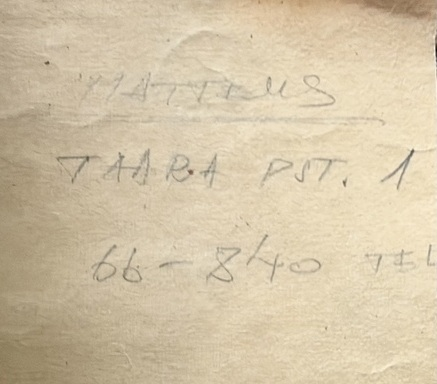
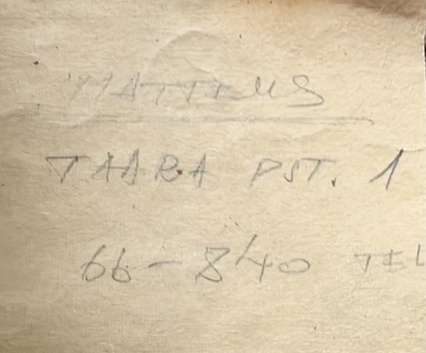
Add files via upload

diff --git a/index.html b/index.html
@@ -5,17 +5,18 @@
 <title>Laasi tuulik · Puiestee 13, Tartu</title>
 <meta name="description" content="Puiestee 13 ajaloolise Laasi ehk Puiestee tuuliku lugu – tuulikust Arnold Matteuse kujundatud elamuks.">
 <style>
-:root{--paper:#f3efe7;--ink:#24221e;--muted:#706b62;--bronze:#80633f;--line:#cfc5b4;--dark:#292a27}*{box-sizing:border-box}html{scroll-behavior:smooth}body{margin:0;background:var(--paper);color:var(--ink);font-family:Georgia,'Times New Roman',serif;line-height:1.65}.wrap{width:min(1080px,calc(100% - 40px));margin:auto}.hero{min-height:92vh;display:grid;align-items:end;background:linear-gradient(0deg,rgba(15,15,13,.76),rgba(15,15,13,.08)),url('laasi-tuulik-vana.jpeg') center 34%/cover no-repeat;color:white}.hero .inner{padding:10vh 0 8vh}.eyebrow{font:600 12px/1.3 Arial,sans-serif;letter-spacing:.2em;text-transform:uppercase}.hero h1{font-size:clamp(54px,10vw,112px);font-weight:400;line-height:.9;margin:.18em 0}.hero p{font-size:clamp(18px,2.4vw,27px);max-width:700px;margin:0}.intro{padding:90px 0 55px;display:grid;grid-template-columns:1fr 2fr;gap:60px}.intro h2,.section h2{font-weight:400;font-size:clamp(34px,5vw,58px);line-height:1.05;margin:0}.intro p{font-size:21px;margin-top:0}.rule{height:1px;background:var(--line)}.section{padding:75px 0}.grid2{display:grid;grid-template-columns:1fr 1fr;gap:28px;align-items:start}.photo{width:100%;display:block}.caption{font:13px/1.5 Arial,sans-serif;color:var(--muted);margin-top:10px}.quote{font-size:clamp(28px,4vw,45px);line-height:1.2;margin:50px auto;max-width:850px;text-align:center}.plan{background:#e8dece;padding:22px}.plan img{width:100%;display:block}.timeline{background:var(--dark);color:#eee;padding:80px 0}.timeline h2{font-weight:400;font-size:48px;margin-top:0}.events{display:grid;grid-template-columns:repeat(4,1fr);gap:28px;border-top:1px solid #6d6a61;padding-top:30px}.event b{font:600 12px Arial,sans-serif;letter-spacing:.12em;text-transform:uppercase;color:#c6a77c}.event p{margin:.6em 0 0}.heritage{background:#ded2c0;padding:78px 0}.heritage .lead{font-size:22px;max-width:820px}.heritage a{color:var(--ink);text-decoration-color:var(--bronze);text-underline-offset:4px}.heritage-list{display:grid;grid-template-columns:repeat(3,1fr);gap:28px;margin-top:38px}.heritage-item{border-top:1px solid #a9977e;padding-top:18px}.heritage-item b{font:600 12px Arial,sans-serif;letter-spacing:.12em;text-transform:uppercase;color:var(--bronze)}.note{padding:70px 0 90px;text-align:center}.note p{max-width:720px;margin:18px auto;color:var(--muted)}footer{border-top:1px solid var(--line);padding:28px 0 50px;font:13px Arial,sans-serif;color:var(--muted)}@media(max-width:720px){.wrap{width:min(100% - 28px,1080px)}.hero{min-height:78vh}.intro,.grid2{grid-template-columns:1fr;gap:25px}.intro{padding-top:60px}.events,.heritage-list{grid-template-columns:1fr}.section{padding:55px 0}.quote{text-align:left}.hero h1{font-size:60px}}
-</style></head>
+:root{--paper:#f3efe7;--ink:#24221e;--muted:#706b62;--bronze:#80633f;--line:#cfc5b4;--dark:#292a27}*{box-sizing:border-box}html{scroll-behavior:smooth}body{margin:0;background:var(--paper);color:var(--ink);font-family:Georgia,'Times New Roman',serif;line-height:1.65}.wrap{width:min(1080px,calc(100% - 40px));margin:auto}.hero{min-height:92vh;display:grid;align-items:end;background:linear-gradient(0deg,rgba(15,15,13,.76),rgba(15,15,13,.08)),url('laasi-tuulik-vana.jpeg') center 34%/cover no-repeat;color:white}.hero .inner{padding:10vh 0 8vh}.eyebrow{font:600 12px/1.3 Arial,sans-serif;letter-spacing:.2em;text-transform:uppercase}.hero h1{font-size:clamp(54px,10vw,112px);font-weight:400;line-height:.9;margin:.18em 0}.hero p{font-size:clamp(18px,2.4vw,27px);max-width:700px;margin:0}.intro{padding:90px 0 55px;display:grid;grid-template-columns:1fr 2fr;gap:60px}.intro h2,.section h2{font-weight:400;font-size:clamp(34px,5vw,58px);line-height:1.05;margin:0}.intro p{font-size:21px;margin-top:0}.rule{height:1px;background:var(--line)}.section{padding:75px 0}.grid2{display:grid;grid-template-columns:1fr 1fr;gap:28px;align-items:start}.photo{width:100%;display:block;border-radius:3px}.caption{font:13px/1.5 Arial,sans-serif;color:var(--muted);margin-top:10px}.quote{font-size:clamp(28px,4vw,45px);line-height:1.2;margin:50px auto;max-width:850px;text-align:center}.plan{background:transparent;padding:0;transform:rotate(.35deg);box-shadow:0 20px 48px rgba(65,50,30,.15)}.plan img{width:100%;display:block}.timeline{background:var(--dark);color:#eee;padding:80px 0}.timeline h2{font-weight:400;font-size:48px;margin-top:0}.events{display:grid;grid-template-columns:repeat(4,1fr);gap:28px;border-top:1px solid #6d6a61;padding-top:30px}.event b{font:600 12px Arial,sans-serif;letter-spacing:.12em;text-transform:uppercase;color:#c6a77c}.event p{margin:.6em 0 0}.heritage{background:#ded2c0;padding:78px 0}.heritage .lead{font-size:22px;max-width:820px}.heritage a{color:var(--ink);text-decoration-color:var(--bronze);text-underline-offset:4px}.heritage-list{display:grid;grid-template-columns:repeat(3,1fr);gap:28px;margin-top:38px}.heritage-item{border-top:1px solid #a9977e;padding-top:18px}.heritage-item b{font:600 12px Arial,sans-serif;letter-spacing:.12em;text-transform:uppercase;color:var(--bronze)}.note{padding:70px 0 90px;text-align:center}.note p{max-width:720px;margin:18px auto;color:var(--muted)}footer{border-top:1px solid var(--line);padding:28px 0 50px;font:13px Arial,sans-serif;color:var(--muted)}@media(max-width:720px){.wrap{width:min(100% - 28px,1080px)}.hero{min-height:72vh;background-position:45% 34%}.hero .inner{padding:12vh 0 7vh}.hero h1{font-size:clamp(52px,17vw,72px);line-height:.92}.hero p{font-size:19px;line-height:1.45}.intro,.grid2{grid-template-columns:1fr;gap:26px}.intro{padding:58px 0 42px}.intro p,.heritage .lead{font-size:19px}.section{padding:52px 0}.section h2,.intro h2{font-size:clamp(36px,11vw,50px)}.quote{text-align:left;font-size:30px;margin:34px 0 42px}.events,.heritage-list{grid-template-columns:1fr}.events{gap:24px}.timeline{padding:58px 0}.timeline h2{font-size:40px}.heritage{padding:58px 0}.heritage-list{gap:24px}.caption{font-size:12px}.plan{transform:none;box-shadow:0 14px 32px rgba(65,50,30,.12)}.matteus-bubble{width:210px;height:210px;margin:32px auto 46px}.matteus-bubble figcaption{bottom:-28px;white-space:normal;width:220px;text-align:center}.note{padding:58px 0 70px}figure{margin-left:0;margin-right:0}}
+.matteus-bubble{width:245px;height:245px;border-radius:50%;overflow:visible;margin:38px auto 8px;position:relative;background:#efe3cf;border:9px solid #f6f0e6;box-shadow:0 18px 42px rgba(52,42,28,.2);transform:rotate(-2deg)}.matteus-bubble img{width:100%;height:100%;object-fit:cover;border-radius:50%;display:block}.matteus-bubble figcaption{position:absolute;left:50%;bottom:-34px;transform:translateX(-50%);white-space:nowrap;font:12px Arial,sans-serif;color:var(--muted)}</style></head>
 <body>
 <header class="hero"><div class="wrap inner"><div class="eyebrow">Puiestee 13 · Tartu</div><h1>Laasi tuulik</h1><p>Ühe Tartu tuuliku lugu, mis ei lõppenud koos viimaste tiivapööretega.</p></div></header>
 <main>
-<section class="wrap intro"><h2>Siin seisis tuulik.</h2><div><p>Puiestee 13 kohal asus 19. sajandist pärinev kivist tuuleveski, mida tuntakse <strong>Puiestee tuuliku ehk Laasi tuulikuna</strong>. See pärineb ajast, mil tänase Puiestee tänava ümbrus oli veel hõredalt hoonestatud.</p><p>Tuulikust on säilinud selle massiivne kivikehand. See ei jäänud varemena seisma: vanast veskist kujunes hiljem tänase elamu süda.</p></div></section>
+<section class="wrap intro"><h2>Siin seisis tuulik.</h2><div><p>Puiestee 13 kohal asus 19. sajandist pärinev kivist tuuleveski, mida tuntakse <strong>Puiestee tuuliku ehk Laasi tuulikuna</strong>. See pärineb ajast, mil tänase Puiestee tänava ümbrus oli veel hõredalt hoonestatud.</p><p>Vana veski ei kadunud jäljetult. Selle varemetele rajati hiljem elumaja ning tuuliku algsed, <strong>üle meetri paksused maakivimüürid</strong> on säilinud tänase maja alumise korruse seintena.</p></div></section>
+<section class="wrap section" style="padding-top:15px"><figure style="margin:0"><img class="photo" src="wittoff-1910.jpeg" alt="Puiestee ümbrus Tartus umbes 1910, vasakul taamal Laasi tuulik"><figcaption class="caption"><strong>Puiestee ümbrus Tartus, u 1910.</strong> Vasakul taamal on näha Laasi ehk Puiestee tuulik veel avatud linnamaastikus. Autokroom: Ernst Wittoff. Eesti Rahva Muuseum, ERM Fk 439:572. Foto tuvastus/viide: Eesti tuulikud – Estonian Windmills, 2023.</figcaption></figure></section>
 <div class="wrap rule"></div>
-<section class="wrap section"><div class="grid2"><figure><img class="photo" src="laasi-tuulik-vana.jpeg" alt="Ajalooline foto Laasi ehk Puiestee tuulikust"><figcaption class="caption">Laasi ehk Puiestee tuulik. Ajalooline lähivaade.</figcaption></figure><figure><img class="photo" src="puiestee13-tana.jpeg" alt="Puiestee 13 elamu tänapäeval"><figcaption class="caption">Puiestee 13 tänapäeval. Endise tuuliku vorm on maja keskosas endiselt loetav.</figcaption></figure></div></section>
+<section class="wrap section"><div class="grid2"><figure><img class="photo" src="laasi-tuulik-vana.jpeg" alt="Ajalooline foto Laasi ehk Puiestee tuulikust"><figcaption class="caption">Laasi ehk Puiestee tuulik. Ajalooline lähivaade.</figcaption></figure><figure><img class="photo" src="puiestee13-tana.jpeg" alt="Puiestee 13 elamu tänapäeval"><figcaption class="caption">Puiestee 13 tänapäeval. Maja alumise korruse seintes on säilinud vana tuuliku maakivimüürid.</figcaption></figure></div></section>
 <section class="wrap section"><h2>Tuulik ja tema ümbrus</h2><div class="grid2" style="margin-top:32px"><figure><img class="photo" src="laasi-tuulik-erakogu.jpeg" alt="Laasi ehk Puiestee tuulik koos kõrvalhoone ja ümbrusega"><figcaption class="caption">Laasi ehk Puiestee tuulik koos vahetu ümbrusega. Foto Puiestee 13 erakogust.</figcaption></figure><div><p>Majaga koos on säilinud ka ajalooline foto, millel avaneb laiem vaade tuulikule ja selle ümbrusele. Näha on veskitorni, galeriid ning kõrval paiknenud hoonet.</p><p>Foto on tänaseni Puiestee 13 majas ning moodustab osa selle koha säilinud loost.</p></div></div></section>
-<section class="wrap section"><h2>Tuulikust koduks</h2><p class="quote">„Arnold Matteus ei kavandanud sellele kohale lihtsalt uut maja – vana tuulik sai uue elu.”</p><div class="grid2"><div><p>Tuuliku säilinud kivikehandi kujundas elamuks Tartu arhitekt ja kauaaegne linnaarhitekt <strong>Arnold Matteus (1897–1986)</strong>. Maja säilinud esimese korruse projektijoonisel on käsitsi kirjutatud <strong>MATTEUS</strong>, tema aadress <strong>Taara pst. 1</strong> ning telefoninumber.</p><p>Ümberehituse tulemusena jäi ajalooline veskikehand maja põhivormiks. Sellele lisandus elamiseks vajalik ruumiprogramm, kuid tuuliku iseloomulik mass ja geomeetria jäid alles.</p><figure style="margin:34px 0 0"><img class="photo" src="matteus-markus.jpeg" alt="Arnold Matteuse käsikirjaline märge projektijoonisel"><figcaption class="caption">Arnold Matteuse käsikirjaline märge säilinud projektijoonisel: „MATTEUS · TAARA PST. 1” ja telefoninumber.</figcaption></figure></div><figure class="plan" style="margin:0"><img src="matteus-esimene-korrus.jpeg" alt="Puiestee 13 esimese korruse projektijoonis Arnold Matteuse käsikirjalise märkega"><figcaption class="caption">Puiestee 13 esimese korruse säilinud projektijoonis. Ülal paremal on Arnold Matteuse käsikirjaline nime- ja kontaktmärge.</figcaption></figure></div></section>
-<section class="timeline"><div class="wrap"><h2>Ühe koha pikk lugu</h2><div class="events"><div class="event"><b>19. sajand</b><p>Laasi ehk Puiestee kivituulik seisab Tartu serval. Täpne rajamisaasta on veel uurimisel.</p></div><div class="event"><b>20. sajand</b><p>Tuuliku töö lõpeb, kuid tugev kivikehand säilib.</p></div><div class="event"><b>Arnold Matteus</b><p>Ajalooline tuulikukehand kujundatakse arhitekt Arnold Matteuse projekti järgi elamuks.</p></div><div class="event"><b>21. sajand</b><p>Puiestee 13 uuendamine jätkub austusega paiga ajaloo vastu. Kavandatav uus eesaed hakkab kinnistu vana lugu edasi kandma.</p></div></div></div></section>
+<section class="wrap section"><h2>Tuulikust koduks</h2><p class="quote">„Arnold Matteus andis vana veski varemetele uue elu – nendele rajati elumaja.”</p><div class="grid2"><div><p>Vana veski varemetele kujundas elumaja Tartu arhitekt ja kauaaegne linnaarhitekt <strong>Arnold Matteus (1897–1986)</strong>. Tuuliku algsed maakivist välismüürid jäid alles ning moodustavad tänaseni maja alumise korruse seinad. Kohati on need <strong>üle meetri paksused</strong>. Maja säilinud esimese korruse projektijoonisel on käsitsi kirjutatud <strong>MATTEUS</strong>, tema aadress <strong>Taara pst. 1</strong> ning telefoninumber.</p><p>Nende vanade müüride peale ja ümber kujundas Matteus elamiseks vajaliku ruumiprogrammi. Nii on osa 19. sajandi veskist füüsiliselt tänase maja osa.</p><figure class="matteus-bubble"><img src="matteus-markus.jpeg" alt="Arnold Matteuse käsikirjaline märge projektijoonisel"><figcaption>Matteuse pliiatsimärge</figcaption></figure></div><figure class="plan" style="margin:0"><img src="matteus-esimene-korrus.jpeg" alt="Puiestee 13 esimese korruse projektijoonis Arnold Matteuse käsikirjalise märkega"><figcaption class="caption">Puiestee 13 esimese korruse säilinud projektijoonis. Ülal paremal on Arnold Matteuse käsikirjaline nime- ja kontaktmärge.</figcaption></figure></div></section>
+<section class="timeline"><div class="wrap"><h2>Ühe koha pikk lugu</h2><div class="events"><div class="event"><b>19. sajand</b><p>Laasi ehk Puiestee kivituulik seisab Tartu serval. Täpne rajamisaasta on veel uurimisel.</p></div><div class="event"><b>20. sajand</b><p>Tuuliku töö lõpeb, kuid massiivsed maakivimüürid säilivad.</p></div><div class="event"><b>Arnold Matteus</b><p>Vana veski varemetele kujundatakse Arnold Matteuse projekti järgi elamu.</p></div><div class="event"><b>21. sajand</b><p>Puiestee 13 uuendamine jätkub austusega paiga ajaloo vastu. Kavandatav uus eesaed hakkab kinnistu vana lugu edasi kandma.</p></div></div></div></section>
 <section class="heritage"><div class="wrap"><div class="eyebrow" style="color:var(--bronze)">Ajaloost uueks kujunduseks</div><h2 style="font-weight:400;font-size:clamp(34px,5vw,58px);line-height:1.05;margin:.25em 0 .5em">Kavandatav eesaed kasvab välja selle paiga loost.</h2><p class="lead">Puiestee 13 kavandatava uue eesaia kujundus ei ole juhuslik dekoratsioon. Selle motiivid lähtuvad kinnistu enda ajaloost, Puiestee alleest ja koduaiast ning hakkavad siduma vana veskikohta tänapäevase koduga.</p><figure style="margin:38px 0 46px"><img class="photo" src="kavandatav-eesaed.jpeg" alt="Puiestee 13 kavandatava eesaia tervikvisuaal"><figcaption class="caption">Kavandatav eesaed · 2026. Autoväravatel Laasi tuulik; tamme ja vahtra kujutised lähtuvad Puiestee alleest ning pihlakas Puiestee 13 koduaiast. Seclusa kontseptsioon.</figcaption></figure><div class="heritage-list"><div class="heritage-item"><b>Veski</b><p>Autoväravatele on kavandatud ajaloolise Laasi tuuliku kujutis – otsene viide hoonele, millest tänane Puiestee 13 alguse sai.</p></div><div class="heritage-item"><b>Tamm ja vaher</b><p>Tamme ja vahtra kujutised on inspireeritud Puiestee allee puudest ning toovad kavandatavasse eesaeda tänava enda ajaloolise rohelise ruumi.</p></div><div class="heritage-item"><b>Pihlakas</b><p>Pihlaka kujutis lähtub päriselt sellest paigast: pihlakas sirgub Puiestee 13 aias ning saab kavandatavas aias osaks kinnistu visuaalsest loost.</p></div></div><p class="lead" style="margin-top:42px">Kavandatava eesaia kontseptsioon on loodud koostöös <a href="https://seclusa.eu" target="_blank" rel="noopener"><strong>Seclusaga</strong></a> – erilahenduste disainiteenusega, mis muudab personaalse idee tootmisvalmis lahenduseks. Puiestee 13 on näide sellest, kuidas aia kujundus võib jutustada just selle paiga enda lugu.</p></div></section>
 <section class="wrap note"><div class="eyebrow" style="color:var(--bronze)">Lugu jätkub</div><h2>Minevik jääb nähtavaks.</h2><p>Puiestee 13 ajaloo uurimine jätkub. Täiendame seda lehte arhiivijooniste, vanade kaartide, fotode ning tuuliku rajamisaja ja nime päritolu kohta leitud andmetega.</p><p>Kavandatav uus eesaed hakkab sama lugu edasi kandma – Laasi tuuliku kujutis autoväravatel, Puiestee alleest inspireeritud tamm ja vaher ning maja aias kasvav pihlakas seovad ajaloo, tänavaruumi, maja ja aia üheks tervikuks.</p></section>
 </main><footer><div class="wrap">Laasi tuulik · Puiestee 13 · Tartu &nbsp;·&nbsp; Ajalooline ülevaade, 2026</div></footer>
